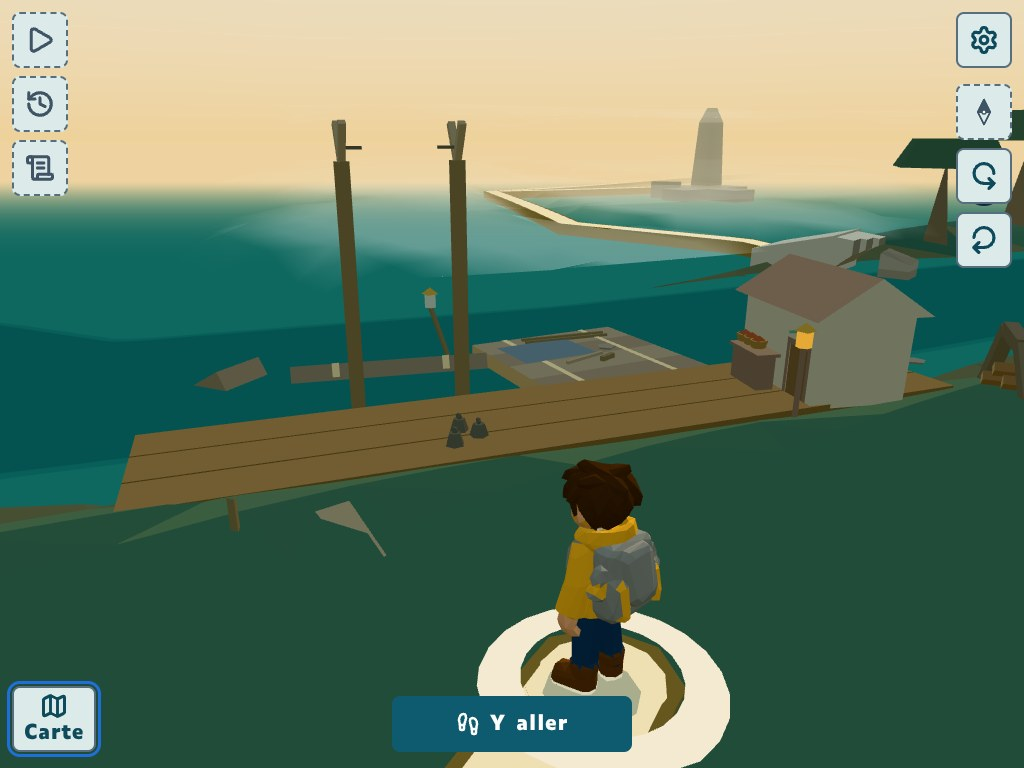
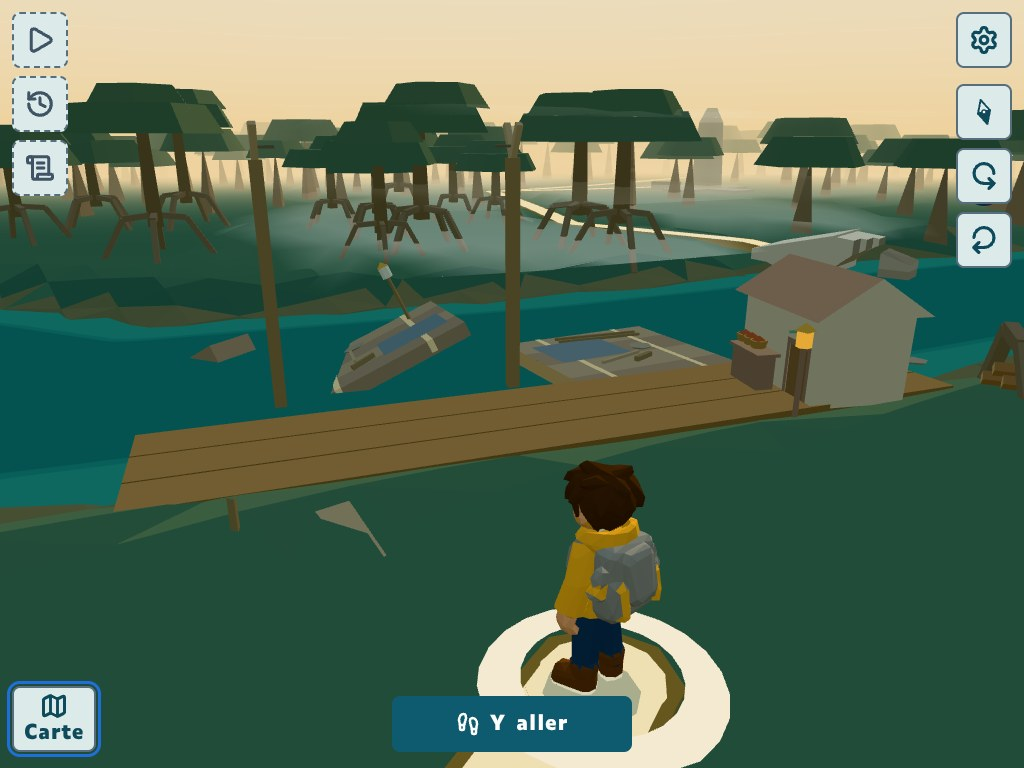
Captures du lot 6 du 5e (Archipéo), retouche 1 : les Radeaux et le Creux sur 3c9ada19

diff --git a/gd22-lot6-5e/archipeo/comparaison.md b/gd22-lot6-5e/archipeo/comparaison.md
@@ -1,12 +1,24 @@
-# GD-22, lot 6 du 5e : les Radeaux et le Creux
+# GD-22, lot 6 du 5e : les Radeaux et le Creux (retouche 1)
 
-Captures 1024 × 768 sauf mention, sur le commit f1333742 (branche `claude/project-thread-1w41fl`), `vite` en local, horloge pilotée et hasard fixe (`scripts/prise-de-vue.mjs`). État de sauvegarde préparé : le Hameau restauré, les Radeaux après 0, 1, 3, 4 et 5 missions (`poserLesParties`). Caméra posée à la main (`view`) pour les vues de la porte, de dos et de trois-quarts, et pour le Creux vu du chemin ; la caméra de marche ne change pas.
+Captures 1024 × 768 sauf mention, sur le commit 3c9ada19, « retouche 1 » (branche `claude/project-thread-1w41fl`), qui remplace la première série (f1333742), `vite` en local, horloge pilotée et hasard fixe (`scripts/prise-de-vue.mjs`). État de sauvegarde préparé : le Hameau restauré, les Radeaux après 0, 1, 3, 4 et 5 missions (`poserLesParties`). Caméra posée à la main (`view`) pour les vues de la porte, de dos et de trois-quarts, et pour le Creux vu du chemin ; la caméra de marche ne change pas.
+
+## Ce que la retouche 1 change, vu dans les images
+- Le cap d'arrivée regarde le quai, puis les radeaux, puis la rive d'en face (01).
+- Les toiles des auvents se voient de face depuis la porte (03, 04).
+- Les radeaux en échelon (net de trois-quarts, 05 ; plus léger vu de la porte) ; les poteaux du portique tombent dans les écarts, sans croiser le radeau du milieu (02, 04).
+- Dans la ruine, le radeau penché et deux perches couchées à peu près parallèles (01).
+- Plus de poids sur le quai après le corps 1 sur 3 (02).
+- La lanterne de la rampe à la taille des autres (04, 05).
+- Les plateaux des balances se lisent (02 à 05).
+- Scénette : les poids sur une planche sous la rangée, plus de tronc dans le cadre (06).
+- Le Creux : plus de triangle clair au haut de l'arche (07, vu du chemin) ; l'arrivée tournée vers l'arche.
+- La Carte : « Les Radeaux » au nord de son point, les radeaux visibles (08).
 
 ## La planche validée par le mainteneur
 ![](00-planche-validee.jpg)
 
 ## Le cap de « Y aller » (la ruine)
-Après « Y aller », la caméra regarde au nord, comme pour tout lieu ; la porte des Radeaux est au nord-est du lieu, la caméra leur tourne le dos.
+Après « Y aller », la caméra regarde maintenant le lieu depuis sa porte (au nord-est) : le quai, puis les radeaux, puis la rive d'en face. Prise sans toucher la caméra, comme l'élève qui arrive.
 ![](01-cap-de-y-aller-ruine.jpg)
 
 ## Vu de la porte : en ruine, après le corps 1 sur 3, après le corps 3 sur 3, après le haut, restauré
@@ -25,12 +37,13 @@ Après « Y aller », la caméra regarde au nord, comme pour tout lieu ; la port
 ![](06-scenette-390x844-opendyslexic-32.jpg)
 
 ## Le Creux : vu du chemin, puis l'arrivée (Kéo sur le seuil, la caméra qui monte)
-L'arrivée est prise la caméra tournée vers l'arche ; la deuxième image, avec un autre cap, montre ce que voit l'élève qui arrive sans tourner la caméra.
+À l'arrivée, la caméra qui monte se tourne d'elle-même vers l'arche, derrière Kéo sur le seuil. La première image est prise avec le cap de la marche depuis le chemin, la deuxième après quatre tours de la caméra avant d'arriver : les deux finissent sur le même regard.
 ![](07-creux-vu-du-chemin.jpg)
 ![](07-creux-arrivee.jpg)
 ![](07-creux-arrivee-autre-cap.jpg)
 
 ## La Carte du 5e : les Radeaux en ruine, restaurés
+Le nom « Les Radeaux » reste au nord de son point ; les trois radeaux, au sud sur le chenal, restent à découvert (petits à cette échelle).
 ![](08-carte-ruine.jpg)
 ![](08-carte-restaure.jpg)
 
